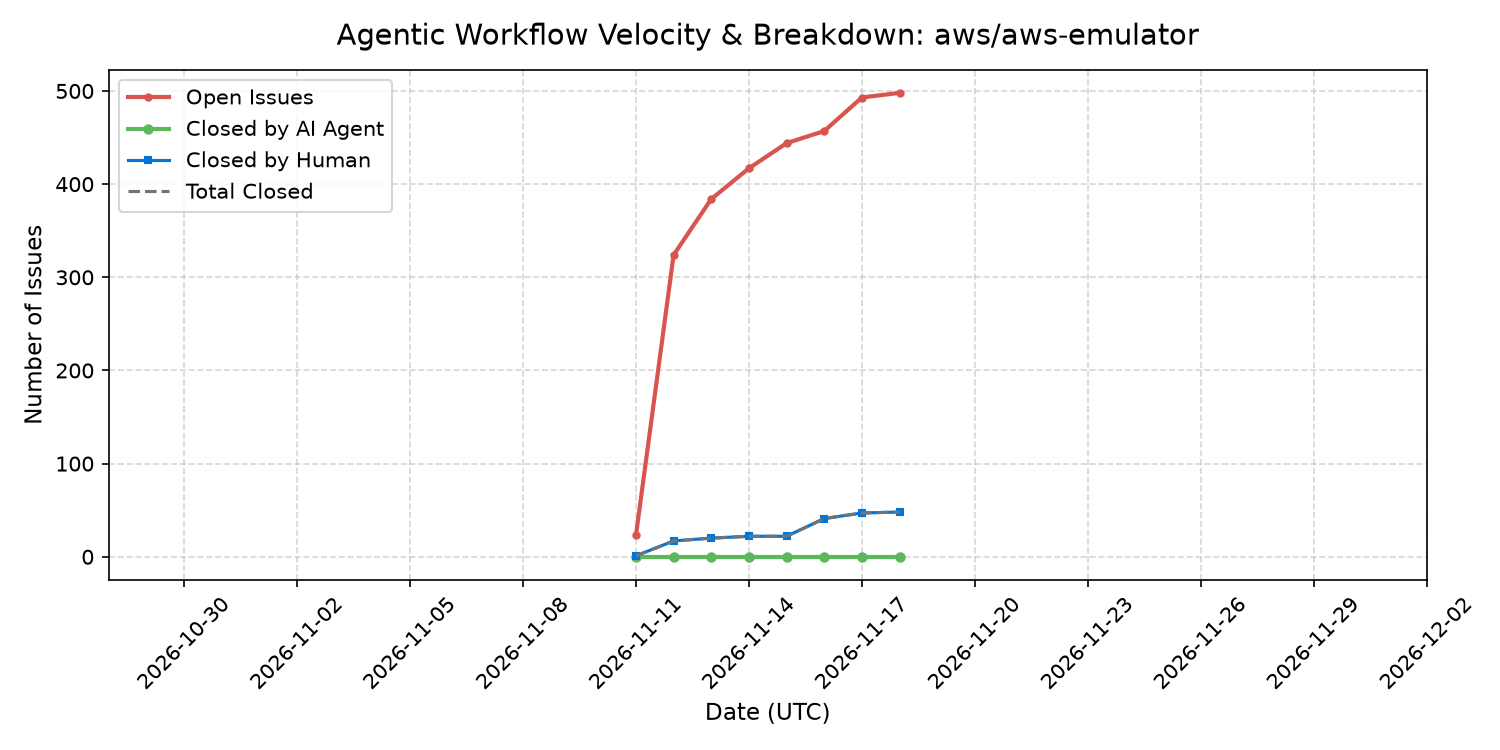
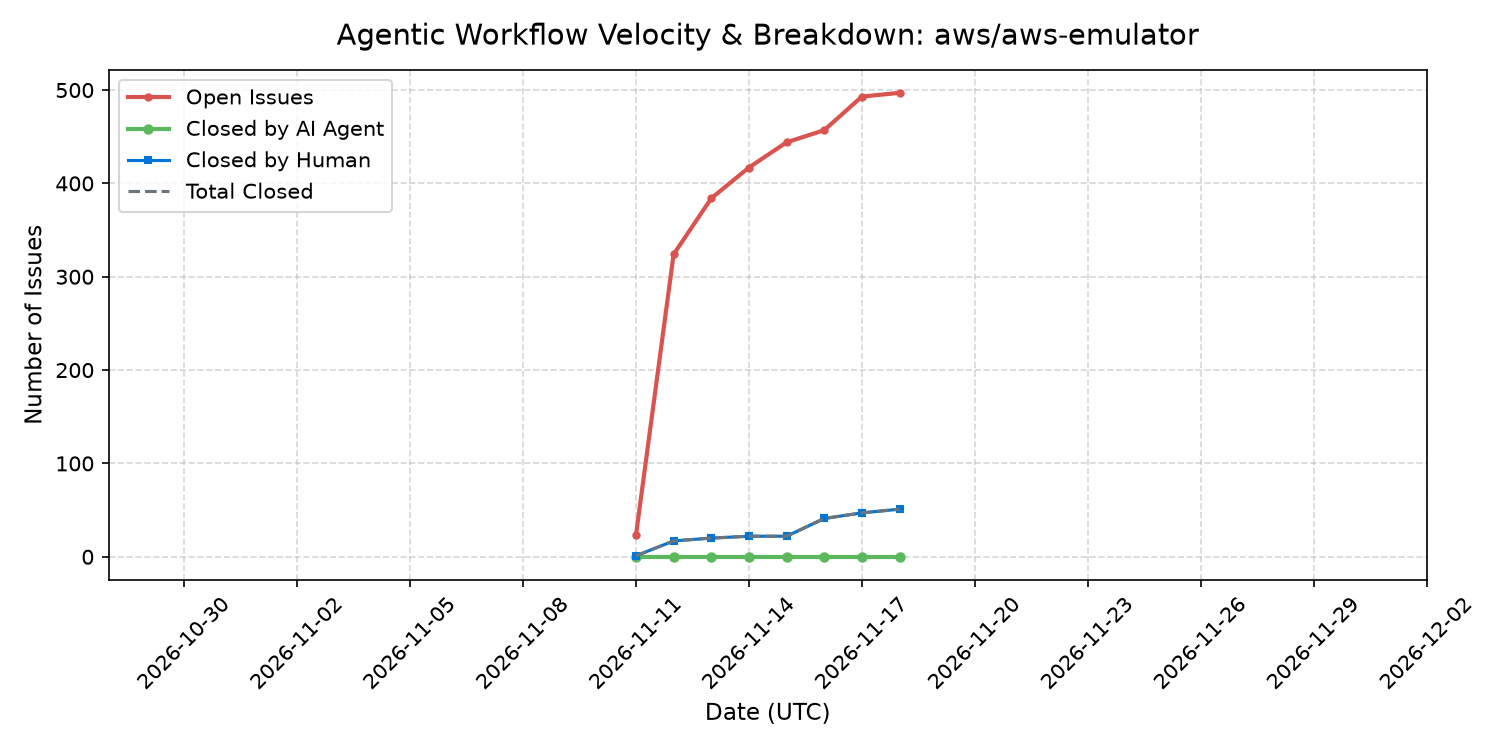
chore: update issue metrics & doomsday clock (2026-11-18) - scheduled check

Changed region(s): [[0.5827, 0.6747, 0.6133, 0.7053], [0.552, 0.1227, 0.5827, 0.1533], [0.0307, 0.1227, 0.0613, 0.1533]]

diff --git a/README.md b/README.md
@@ -12,16 +12,16 @@ Automated tracking of open and closed issues in [`aws/aws-emulator`](https://git
 ## Current Snapshot & Developer Doomsday Clock
 
 <!-- STATS_START -->
-**Last Checked:** 2026-11-18 06:45 UTC  
+**Last Checked:** 2026-11-18 20:14 UTC  
 **Update Schedule:** every 6 hours (00:05, 06:05, 12:05, 18:05 UTC)  
 - **Developer Doomsday Clock (v2):** 12.0 hours to midnight (clock reads 12:00)  
 - **Agent Resolution Share:** 50.0% combined (public issues 0.0%, agents' own queue 100.0%, weighted 50% / 50%)  
-- **Bug Doom Loop Ratio (public issues):** 11.1 opened per issue closed (last 6.3 days)  
-- **Open Issues:** 498  
+- **Bug Doom Loop Ratio (public issues):** 10.5 opened per issue closed (last 6.8 days)  
+- **Open Issues:** 497  
 - **Closed by AI Agent:** 0  
-- **Closed by Human:** 48  
-- **Closures That Reference a Fix:** 10 of 48 (0 without a reference, 1 declined, 37 withdrawn by the reporter, 0 duplicate)  
-- **Agents' Own Queue (in-repo):** 5,910 open, 16,466 resolved (0 by people)
+- **Closed by Human:** 51  
+- **Closures That Reference a Fix:** 10 of 51 (0 without a reference, 1 declined, 40 withdrawn by the reporter, 0 duplicate)  
+- **Agents' Own Queue (in-repo):** 5,696 open, 16,913 resolved (0 by people)
 <!-- STATS_END -->
 
 ### The Developer Doomsday Clock
